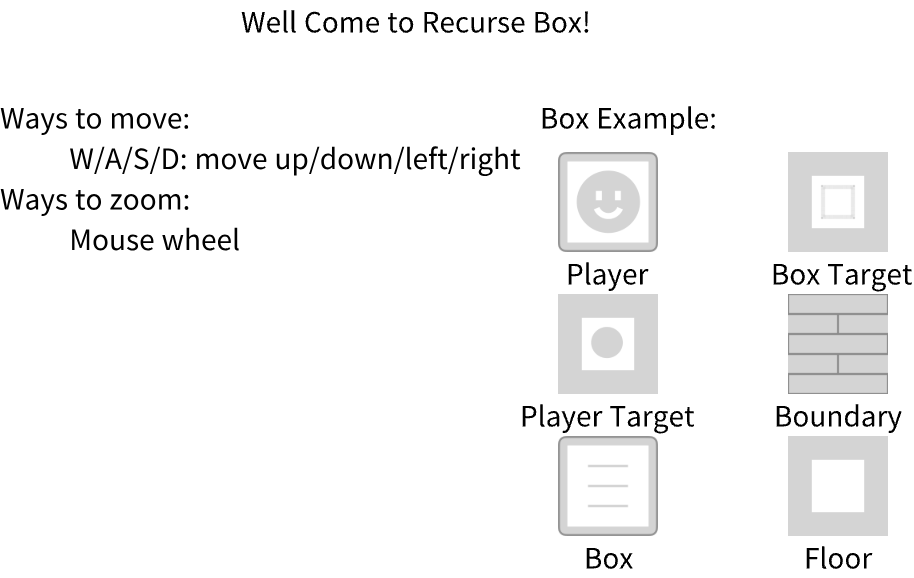
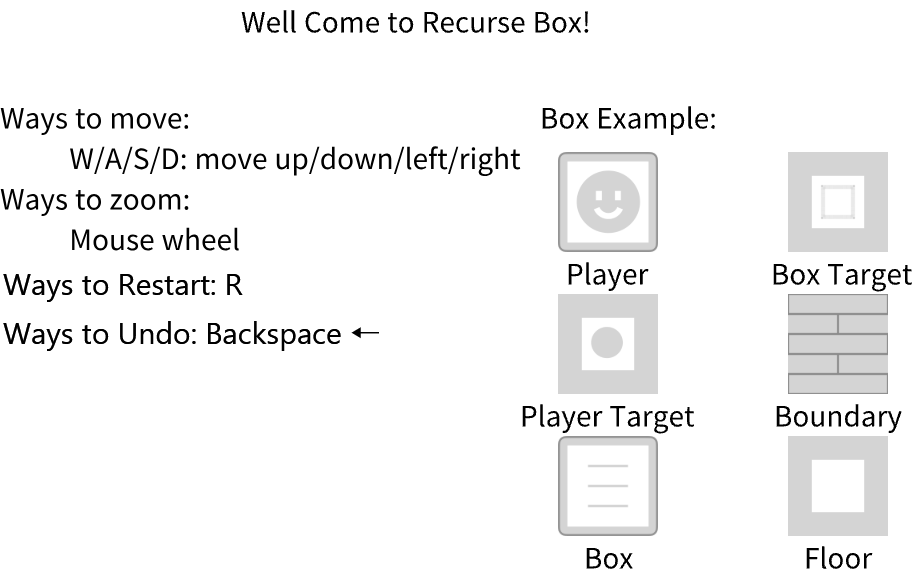
feat(GameScene): add shortcut keys

Changed region(s): [[0.0, 0.5606, 0.3982, 0.6228], [0.0, 0.4671, 0.2757, 0.5294]]

diff --git a/Classes/GameFrame/GameScene.cpp b/Classes/GameFrame/GameScene.cpp
@@ -13,9 +13,7 @@ Scene* GameScene::scene(int lid, bool saved)
     //todo:readfile
 
     controler::get()->init(lid);
-    if (saved) {
-        controler::get()->needLoad = true;
-    }
+    controler::get()->needLoad = saved;
 
     GameScene* GameScene = GameScene::create();
     scene->addChild(GameScene);
@@ -73,12 +71,12 @@ bool GameScene::init()
     auto levelTitle = Label::createWithTTF("Sokoban~", "fonts/Marker Felt.ttf", 48);
     levelTitle->setPosition(Vec2(winSize.width / 2,
         winSize.height - levelTitle->getContentSize().height));
-
     this->addChild(levelTitle, 1);
 
     MenuItemFont::setFontSize(20);
     MenuItemFont::setFontName("Arial");
 
+    Vector<MenuItem*> optItems;
     Label* saveLabel = Label::createWithTTF("Save", "fonts/Marker Felt.ttf", 48);
     saveLabel->setColor(Color3B(31, 45, 150));
     MenuItemLabel* saveItem = MenuItemLabel::create(saveLabel,
@@ -86,20 +84,21 @@ bool GameScene::init()
             controler* con = controler::get();
             SaveManager::getInstance()->saveGame(con->lid, con->mv);
         });
-
-    Menu* saveMenu = Menu::create(saveItem, nullptr);
-    saveMenu->setPosition(Vec2(winSize.width / 2 - 300, 48));
-    addChild(saveMenu, 1);
+    optItems.pushBack(saveItem);
 
     Label* undoLabel = Label::createWithTTF("Undo", "fonts/Marker Felt.ttf", 48);
     undoLabel->setColor(Color3B(31, 45, 150));
     MenuItemLabel* undoItem = MenuItemLabel::create(undoLabel,
-        CC_CALLBACK_1(GameScene::onUndo,
-            this, controler::get()->lid, controler::get()->mv)
+        CC_CALLBACK_1(GameScene::onUndo, this)
     );
-    Menu* undoMenu = Menu::create(undoItem, nullptr);
-    undoMenu->setPosition(Vec2(winSize.width / 2, 48));
-    addChild(undoMenu, 1);
+    optItems.pushBack(undoItem);
+
+    Label* restartLabel = Label::createWithTTF("Restart", "fonts/Marker Felt.ttf", 48);
+    restartLabel->setColor(Color3B(31, 45, 150));
+    MenuItemLabel* restartItem = MenuItemLabel::create(restartLabel,
+        CC_CALLBACK_1(GameScene::onRestart, this)
+    );
+    optItems.pushBack(restartItem);
 
     Label* back = Label::createWithTTF("Go back", "fonts/Marker Felt.ttf", 48);
     back->setColor(Color3B(31, 45, 150));
@@ -108,9 +107,13 @@ bool GameScene::init()
             Scene* scene = LevelSelectLayer::scene();
             Director::getInstance()->replaceScene(TransitionFade::create(0.2f, scene));
         });
-    Menu* backMenu = Menu::create(backMain, nullptr);
-    backMenu->setPosition(Vec2(winSize.width / 2 + 300, 48));
-    addChild(backMenu, 1);
+    optItems.pushBack(backMain);
+
+    Menu* optMenu = Menu::createWithArray(optItems);
+    optMenu->alignItemsHorizontallyWithPadding(100);
+    optMenu->setPosition(Vec2(winSize.width / 2, 48));
+    this->addChild(optMenu, 1);
+
 
     SaveInfo* info = SaveManager::getInstance()->info;
     if (info) {
@@ -126,21 +129,35 @@ void GameScene::onKeyPressed(EventKeyboard::KeyCode keyCode, Event* event)
 void GameScene::onKeyReleased(EventKeyboard::KeyCode keyCode, Event* event)
 {
     log("Key with keycode %d released", keyCode);
-    if (keyCode == EventKeyboard::KeyCode::KEY_W) {
+    switch (keyCode) {
+    case EventKeyboard::KeyCode::KEY_W: {
         controler::get()->move({ 0, 1 });
         log("go up");
+        break;
     }
-    else if (keyCode == EventKeyboard::KeyCode::KEY_S) {
+    case EventKeyboard::KeyCode::KEY_S: {
         controler::get()->move({ 0, -1 });
         log("go down");
+        break;
     }
-    else if (keyCode == EventKeyboard::KeyCode::KEY_A) {
+    case EventKeyboard::KeyCode::KEY_A: {
         controler::get()->move({ -1,0 });
         log("go left");
+        break;
     }
-    else if (keyCode == EventKeyboard::KeyCode::KEY_D) {
+    case EventKeyboard::KeyCode::KEY_D: {
         controler::get()->move({ 1, 0 });
         log("go right");
+        break;
+    }
+    case EventKeyboard::KeyCode::KEY_R: {
+        this->onRestart(this);
+        break;
+    }
+    case EventKeyboard::KeyCode::KEY_BACKSPACE: {
+        this->onUndo(this);
+        break;
+    }
     }
 }
 void GameScene::onMouseScroll(Event* event)
@@ -153,12 +170,24 @@ void GameScene::onMouseScroll(Event* event)
         log("Mouse scrolled: %f", deltaY);
     }
 }
-void GameScene::onUndo(Ref* pSender, int lid, std::vector<pii> steps) {
+
+void GameScene::onUndo(Ref* pSender) {
+    int lid = controler::get()->lid;
+    std::vector<pii> steps = controler::get()->mv;
+
     if (SaveManager::getInstance()->info == nullptr) {
         SaveManager::getInstance()->info = new SaveInfo(lid, steps, "");
     }
 
     Scene* scene = GameScene::scene(SaveManager::getInstance()->info->level_id, true);
+    Director::getInstance()->replaceScene(TransitionFade::create(0, scene));
+}
+
+
+void GameScene::onRestart(Ref* pSender) {
+    int lid = controler::get()->lid;
+
+    Scene* scene = GameScene::scene(lid, false);
     Director::getInstance()->replaceScene(TransitionFade::create(0, scene));
 }
 

diff --git a/Classes/MainMenu/SysMenuScene.cpp b/Classes/MainMenu/SysMenuScene.cpp
@@ -68,28 +68,19 @@ bool SysMenuScene::init()
             Director::getInstance()->replaceScene(TransitionFade::create(0.2f, scene));
         });
 
-
-    //float x = origin.x + visibleSize.width / 2;
-    //float y = origin.y + visibleSize.height / 2 + startItem->getContentSize().height / 2 + 10;
-    //startItem->setPosition(Vec2(x, y));
-
     auto loadItem = MenuItemImage::create(
         "MainMenu/resume.png", "MainMenu/resume.png",
         [&](Ref* sender) {
             Scene* scene = LoadLayer::scene();
             Director::getInstance()->replaceScene(TransitionFade::create(0.2f, scene));
         });
+
     auto designItem = MenuItemImage::create(
-        "MainMenu/resume.png", "MainMenu/resume.png",
+        "MainMenu/create_tool.png", "MainMenu/create_tool.png",
         [&](Ref* sender) {
             Scene* scene = DesignLayer::scene();
             Director::getInstance()->replaceScene(TransitionFade::create(0.2f, scene));
         });
-
-
-    //float x = origin.x + visibleSize.width / 2;
-    //float y = origin.y + visibleSize.height / 2 + startItem->getContentSize().height / 2 + 10;
-    //loadItem->setPosition(Vec2(x, y));
 
     auto helpItem = MenuItemImage::create("MainMenu/bubble.png", "MainMenu/bubble.png",
         [&](Ref* sender) {
@@ -100,8 +91,8 @@ bool SysMenuScene::init()
     //closeItem->setPosition(Vec2(origin.x + visibleSize.width / 2, origin.y + closeItem->getContentSize().height / 2));
 
     // create menu, it's an autorelease object
-    auto menu = Menu::create(startItem, loadItem, designItem, helpItem, NULL);
-    menu->alignItemsVertically();
+    auto menu = Menu::create(startItem, loadItem, helpItem, designItem, NULL);
+    menu->alignItemsInColumns(1, 1, 2);
     menu->setPosition(Vec2(visibleSize.width / 2, visibleSize.height / 2));
     this->addChild(menu, 1);
 

diff --git a/Classes/GameFrame/GameScene.h b/Classes/GameFrame/GameScene.h
@@ -24,7 +24,9 @@ public:
 
     void GameScene::onMouseScroll(Event* event);
 
-    void GameScene::onUndo(Ref* pSender, int lid, std::vector<pii>);
+    void GameScene::onUndo(Ref* pSender);
+
+    void GameScene::onRestart(Ref* pSender);
 
     void GameScene::onMouseDown(Event* event);
 
